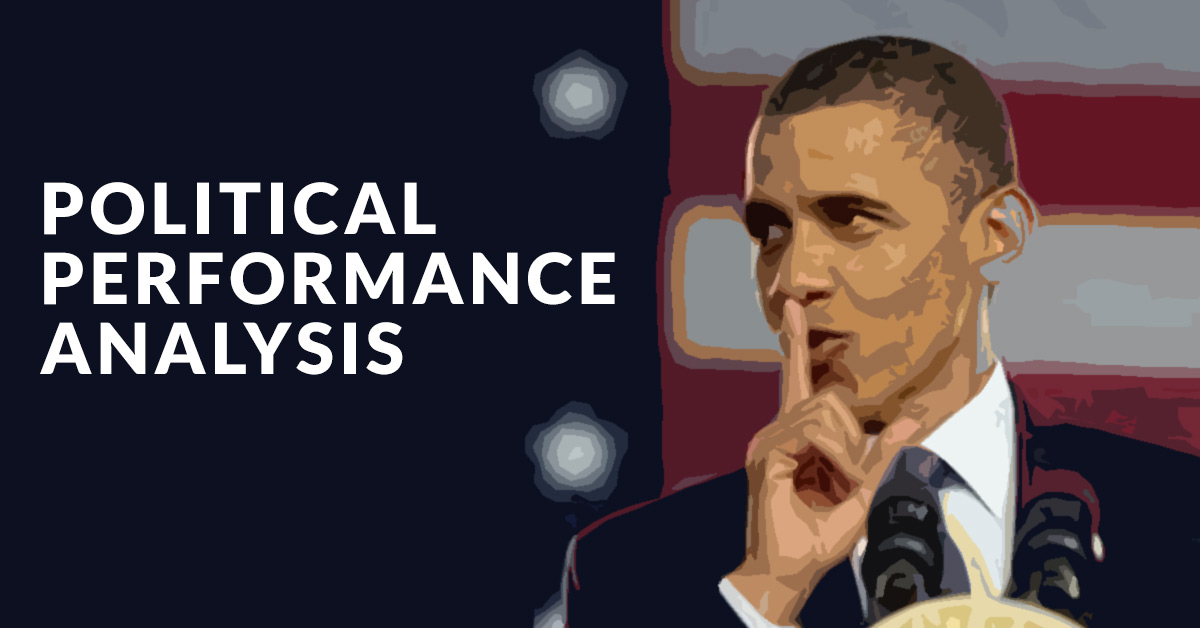
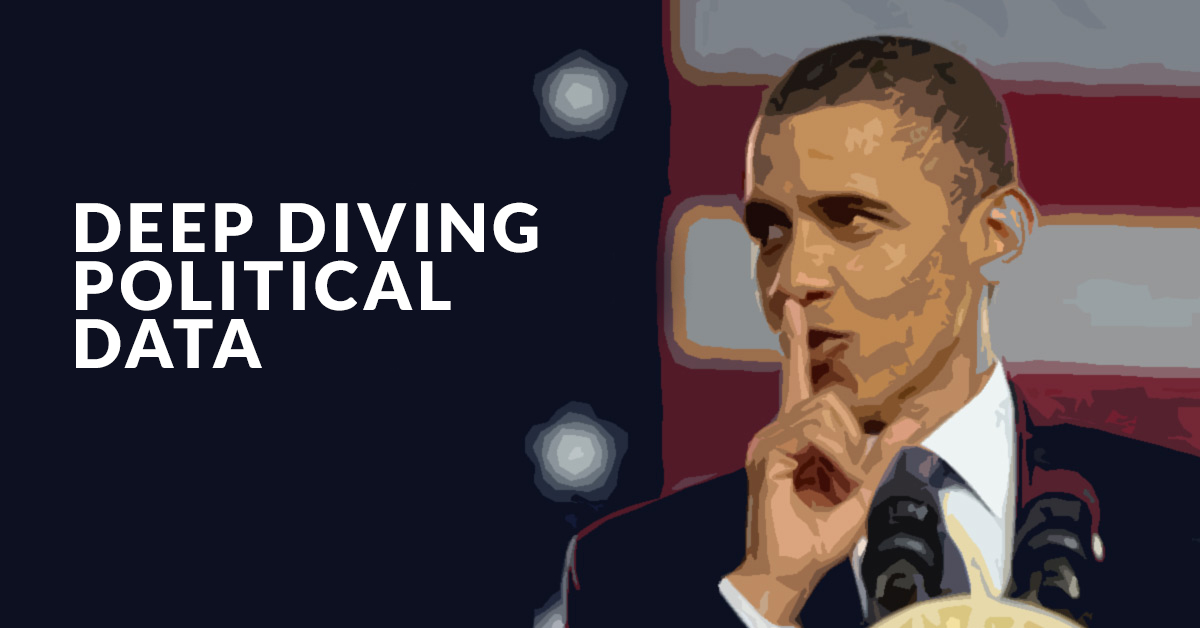
Update

Changed region(s): [[0.0308, 0.2723, 0.5858, 0.6051]]

diff --git a/deep-diving-political-data.html b/deep-diving-political-data.html
@@ -1,7 +1,7 @@
 ---
 layout: default
-title: Political Performance Analysis
-section_id: Political Performance Analysis
+title: Deep Diving Political Data
+section_id: Deep Diving Political Data
 ogimage: political-analysis.jpg
 description: This page aims to provide you with a small sample of the sort of research we (the Citizen Research Centre) can do into political parties.
 ---
